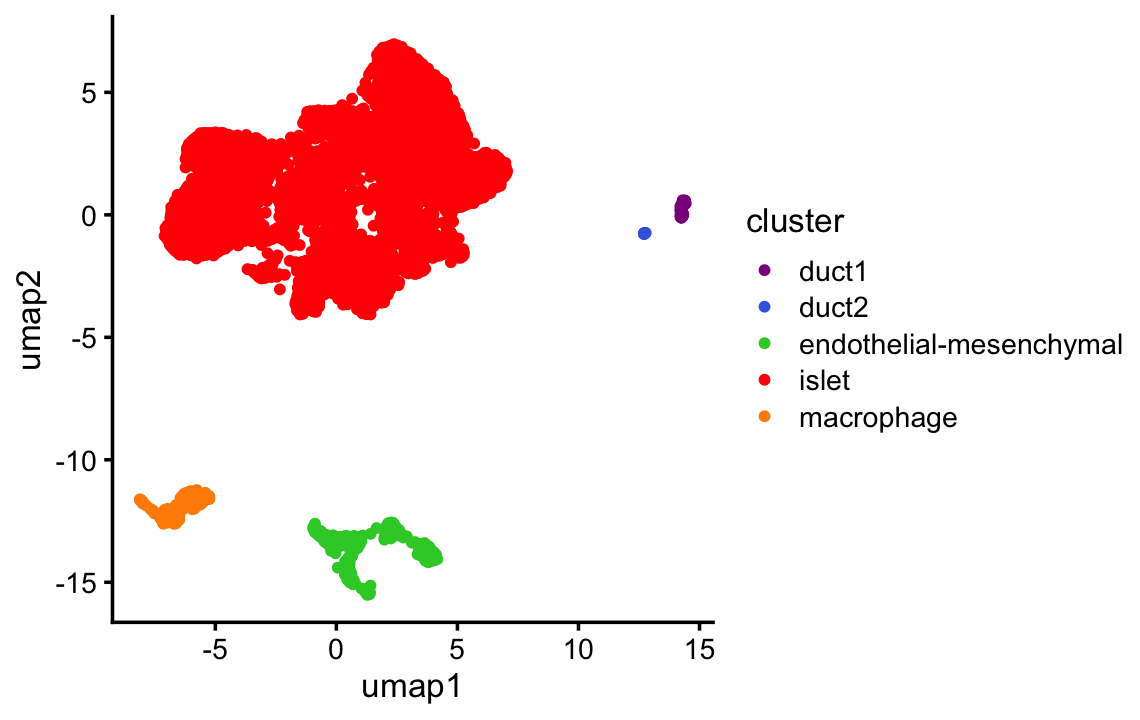
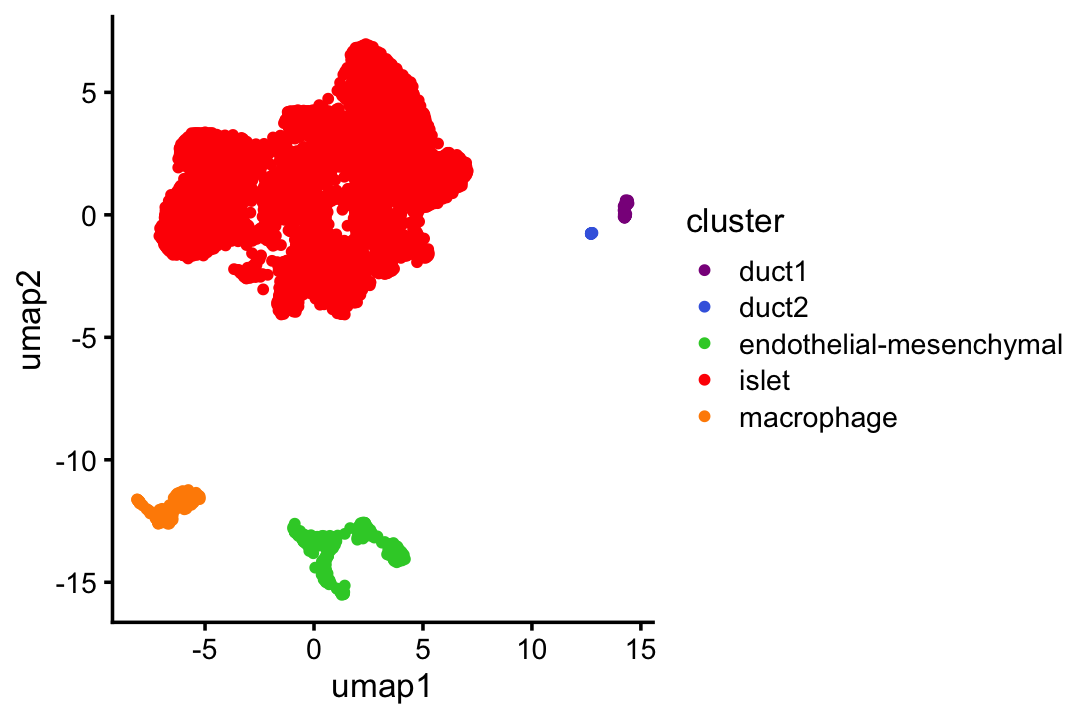
Added a umap plot to the pancreas_cytokine analysis.

diff --git a/docs/pancreas_cytokine.html b/docs/pancreas_cytokine.html
@@ -433,15 +433,15 @@ project makes it easier to run your code on other machines.</p>
 <div class="panel panel-default">
 <div class="panel-heading">
 <p class="panel-title">
-<a data-toggle="collapse" data-parent="#workflowr-checks" href="#strongRepositoryversionstrongahrefhttpsgithubcomstephenslabsinglecelljamboreetreea33032feb73c6246eadb9ccd9b504c26a24ae332targetblanka33032fa">
+<a data-toggle="collapse" data-parent="#workflowr-checks" href="#strongRepositoryversionstrongahrefhttpsgithubcomstephenslabsinglecelljamboreetree8168143d10ffdd7cfdcafda94affc890f8694d9dtargetblank8168143a">
 <span class="glyphicon glyphicon-ok text-success"
 aria-hidden="true"></span> <strong>Repository version:</strong>
-<a href="https://github.com/stephenslab/single-cell-jamboree/tree/a33032feb73c6246eadb9ccd9b504c26a24ae332" target="_blank">a33032f</a>
+<a href="https://github.com/stephenslab/single-cell-jamboree/tree/8168143d10ffdd7cfdcafda94affc890f8694d9d" target="_blank">8168143</a>
 </a>
 </p>
 </div>
 <div
[2 lines of base64/hex data omitted]
 class="panel-collapse collapse">
 <div class="panel-body">
 <p>
@@ -451,7 +451,7 @@ reproducibility.
 </p>
 <p>
 The results in this page were generated with repository version
-<a href="https://github.com/stephenslab/single-cell-jamboree/tree/a33032feb73c6246eadb9ccd9b504c26a24ae332" target="_blank">a33032f</a>.
+<a href="https://github.com/stephenslab/single-cell-jamboree/tree/8168143d10ffdd7cfdcafda94affc890f8694d9d" target="_blank">8168143</a>.
 See the <em>Past versions</em> tab to see a history of the changes made
 to the R Markdown and HTML files.
 </p>
@@ -523,6 +523,40 @@ Message
 </tr>
 </thead>
 <tbody>
+<tr>
+<td>
+Rmd
+</td>
+<td>
+<a href="https://github.com/stephenslab/single-cell-jamboree/blob/8168143d10ffdd7cfdcafda94affc890f8694d9d/analysis/pancreas_cytokine.Rmd" target="_blank">8168143</a>
+</td>
+<td>
+Peter Carbonetto
+</td>
+<td>
+2025-06-06
+</td>
+<td>
+wflow_publish("pancreas_cytokine.Rmd", verbose = TRUE, view = FALSE)
+</td>
+</tr>
+<tr>
+<td>
+html
+</td>
+<td>
+<a href="https://rawcdn.githack.com/stephenslab/single-cell-jamboree/af8e02d63c8bba11a42eaf2b2417b83cfaeef700/docs/pancreas_cytokine.html" target="_blank">af8e02d</a>
+</td>
+<td>
+Peter Carbonetto
+</td>
+<td>
+2025-06-06
+</td>
+<td>
+Build site.
+</td>
+</tr>
 <tr>
 <td>
 Rmd
@@ -1004,7 +1038,7 @@ ggplot(samples,aes(x = umap1,y = umap2,color = cluster)) +
   geom_point(size = 1) +
   scale_color_manual(values = cluster_colors) +
   theme_cowplot(font_size = 10)</code></pre>
-<p><img src="figure/pancreas_cytokine.Rmd/umap-plot-1-1.png" width="570" style="display: block; margin: auto;" /></p>
+<p><img src="figure/pancreas_cytokine.Rmd/umap-plot-1-1.png" width="540" style="display: block; margin: auto;" /></p>
 <p>
 <button type="button" class="btn btn-default btn-xs btn-workflowr btn-workflowr-fig" data-toggle="collapse" data-target="#fig-umap-plot-1-1">
 Past versions of umap-plot-1-1.png
@@ -1053,8 +1087,72 @@ Peter Carbonetto
 </table>
 </div>
 </div>
-<p>UAMP plot for the first mouse only:</p>
-<p><code>{umap-plot-2, fig.height=3, fig.width=3.5} ggplot(subset(samples,mouse == "S1"),        aes(x = umap1,y = umap2,color = cluster)) +   geom_point(size = 1) +   scale_color_manual(values = cluster_colors) +   theme_cowplot(font_size = 10)</code></p>
+<p>UMAP plot for <em>the first (untreated) mouse only:</em></p>
+<pre class="r"><code>ggplot(subset(samples,mouse == &quot;S1&quot;),
+       aes(x = umap1,y = umap2,color = cluster)) +
+  geom_point(size = 1) +
+  scale_color_manual(values = cluster_colors) +
+  theme_cowplot(font_size = 10)</code></pre>
+<p><img src="figure/pancreas_cytokine.Rmd/umap-plot-2-1.png" width="540" style="display: block; margin: auto;" /></p>
+<p>
+<button type="button" class="btn btn-default btn-xs btn-workflowr btn-workflowr-fig" data-toggle="collapse" data-target="#fig-umap-plot-2-1">
+Past versions of umap-plot-2-1.png
+</button>
+</p>
+<div id="fig-umap-plot-2-1" class="collapse">
+<div class="table-responsive">
+<table class="table table-condensed table-hover">
+<thead>
+<tr>
+<th>
+Version
+</th>
+<th>
+Author
+</th>
+<th>
+Date
+</th>
+</tr>
+</thead>
+<tbody>
+<tr>
+<td>
+<a href="https://github.com/stephenslab/single-cell-jamboree/blob/af8e02d63c8bba11a42eaf2b2417b83cfaeef700/docs/figure/pancreas_cytokine.Rmd/umap-plot-2-1.png" target="_blank">af8e02d</a>
+</td>
+<td>
+Peter Carbonetto
+</td>
+<td>
+2025-06-06
+</td>
+</tr>
+<tr>
+<td>
+<a href="https://github.com/stephenslab/single-cell-jamboree/blob/d9cd6103626726cebc5792a9195371527be6ecb5/docs/figure/pancreas_cytokine.Rmd/umap-plot-2-1.png" target="_blank">d9cd610</a>
+</td>
+<td>
+Peter Carbonetto
+</td>
+<td>
+2025-06-06
+</td>
+</tr>
+<tr>
+<td>
+<a href="https://github.com/stephenslab/single-cell-jamboree/blob/8081d2c4f3cf5d6e4adec876ba88b05233d455e7/docs/figure/pancreas_cytokine.Rmd/umap-plot-2-1.png" target="_blank">8081d2c</a>
+</td>
+<td>
+Peter Carbonetto
+</td>
+<td>
+2025-06-05
+</td>
+</tr>
+</tbody>
+</table>
+</div>
+</div>
 <p>UMAP plot by mouse:</p>
 <pre class="r"><code>sample_colors &lt;- c(&quot;limegreen&quot;,&quot;orange&quot;,&quot;darkblue&quot;,&quot;magenta&quot;)
 ggplot(samples,aes(x = umap1,y = umap2,color = mouse)) +
@@ -1062,6 +1160,43 @@ ggplot(samples,aes(x = umap1,y = umap2,color = mouse)) +
   scale_color_manual(values = sample_colors) +
   theme_cowplot(font_size = 10)</code></pre>
 <p><img src="figure/pancreas_cytokine.Rmd/umap-plot-3-1.png" width="420" style="display: block; margin: auto;" /></p>
+<p>
+<button type="button" class="btn btn-default btn-xs btn-workflowr btn-workflowr-fig" data-toggle="collapse" data-target="#fig-umap-plot-3-1">
+Past versions of umap-plot-3-1.png
+</button>
+</p>
+<div id="fig-umap-plot-3-1" class="collapse">
+<div class="table-responsive">
+<table class="table table-condensed table-hover">
+<thead>
+<tr>
+<th>
+Version
+</th>
+<th>
+Author
+</th>
+<th>
+Date
+</th>
+</tr>
+</thead>
+<tbody>
+<tr>
+<td>
+<a href="https://github.com/stephenslab/single-cell-jamboree/blob/af8e02d63c8bba11a42eaf2b2417b83cfaeef700/docs/figure/pancreas_cytokine.Rmd/umap-plot-3-1.png" target="_blank">af8e02d</a>
+</td>
+<td>
+Peter Carbonetto
+</td>
+<td>
+2025-06-06
+</td>
+</tr>
+</tbody>
+</table>
+</div>
+</div>
 <p>Save the processed data to an RData file:</p>
 <pre class="r"><code>save(list = c(&quot;samples&quot;,&quot;genes&quot;,&quot;counts&quot;),
      file = &quot;pancreas_cytokine.RData&quot;)
